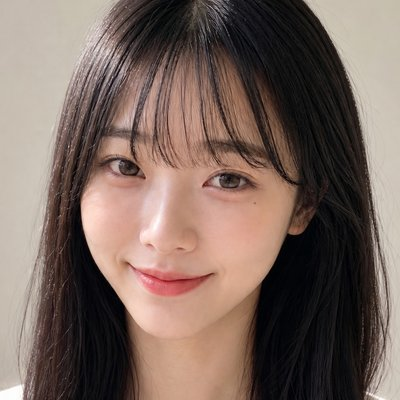
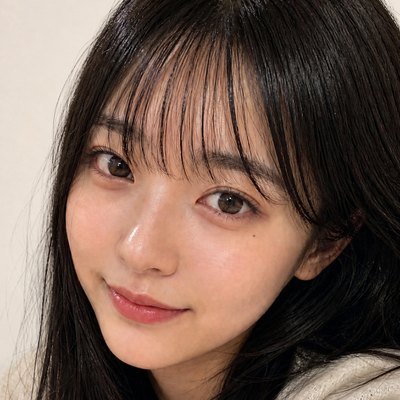
「選ぶ」にnote記事の紹介ページを追加、ゆづきの顔を正本に差し替え
- /erabu/note/ を追加（公開済みnote記事11本をテーマ別に、見出し画像つき）
- /erabu/ の「まず読む3本」の下とWRITER帯、トップのYuki欄から一覧へリンク
- ゆづきのアバターを11/3確定の正本（正面笑顔）に差し替え
- sitemap.xml を更新

Claude-Session: https://claude.ai/code/session_016YuGQd8MzMS8DA3jrAxALJ

diff --git a/erabu/note/index.html b/erabu/note/index.html
@@ -1,0 +1,51 @@
+<!doctype html>
+<html lang="ja">
+<head>
+<meta charset="utf-8">
+<meta name="viewport" content="width=device-width, initial-scale=1, viewport-fit=cover">
+<title>Yukiのnote記事｜AI時代の働き方</title>
+<meta name="description" content="求人票の見方、固定残業代、内定通知書、パワハラの記録、きついメールへの返信など、Yukiがnoteに書いた記事をテーマ別に紹介。どれもAIに貼って使える指示文つき。">
+<meta property="og:title" content="Yukiのnote記事｜AI時代の働き方">
+<meta property="og:description" content="求人票の見方、固定残業代、内定通知書、パワハラの記録、きついメールへの返信など、Yukiがnoteに書いた記事をテーマ別に紹介。どれもAIに貼って使える指示文つき。">
+<meta property="og:type" content="article">
+<meta property="og:image" content="https://yuki19850322.github.io/sannin-note/img/og.jpg">
+<meta property="og:site_name" content="AI時代の働き方">
+<meta name="twitter:card" content="summary_large_image">
+<link rel="icon" href="../../favicon.svg" type="image/svg+xml">
+<meta name="theme-color" content="#f6f2ea">
+<link rel="preconnect" href="https://fonts.googleapis.com">
+<link rel="preconnect" href="https://fonts.gstatic.com" crossorigin>
+<link href="https://fonts.googleapis.com/css2?family=Syne:wght@500;700;800&family=Zen+Kaku+Gothic+New:wght@400;500;700;900&display=swap" rel="stylesheet">
+<link rel="stylesheet" href="../../assets/sub.css">
+<link rel="stylesheet" href="../../assets/fx.css">
+<link rel="stylesheet" href="../../assets/depth.css">
+<script src="../../assets/sub.js"></script>
+<script src="../../assets/fx.js"></script>
+</head>
+<body style="--c:var(--yuki)">
+<div class="bar" id="bar"></div>
+<div class="spot" id="spot"></div>
+<div class="act" id="cur"></div><div class="cur2" id="cur2"></div>
+<header>
+  <div class="wrap">
+    <a class="logo" href="../../"><i></i>AI時代の働き方</a>
+    <nav><a href="../../erabu/" style="--c:var(--yuki)" class="act">CHOOSE</a><a href="../../tsukau/" style="--c:var(--misaki)">USE</a><a href="../../totonoeru/" style="--c:var(--yuzuki)">LIVE</a><a href="../../about/">ABOUT</a></nav>
+  </div>
+</header>
+<main>
+<div class="ph"><div class="mesh"></div><div class="ring"></div><div class="ring2"></div><div class="wrap">
+  <div><div class="crumb"><a href="../../">TOP</a> <a href="../">CHOOSE</a> <span>NOTE</span></div>
+  <div class="kicker">YUKI ／ NOTE</div>
+  <h1 style="font-size:clamp(28px,4.4vw,54px)">noteの記事を、テーマ別に。</h1>
+  <p class="lead">求人票の読み方から、職場でつらいときの返し方まで。Yukiがnoteに書いた記事を、悩みの場面ごとに並べました。どれも「AIに貼る→AIが整理する→自分で確かめる」の順で、指示文つきです。記事はnoteで読めます（無料）。</p></div>
+  <div class="stage"><div class="layer hero-art" data-d="1"><img src="../../img/note/f2.jpg" alt=""><span class="badge">NOTE</span><span class="cap"><i></i>AIに貼って、自分で確かめる。</span></div><div class="layer mini m1" data-d="2.2"><img src="../../img/note/a1.jpg" alt=""></div><div class="layer mini m2" data-d="3.0"><img src="../../img/note/n2.jpg" alt=""></div><div class="layer tagf t1" data-d="3.6"><i></i>指示文つき</div><div class="layer tagf t2" data-d="2.6"><i></i>無料で読める</div></div>
+</div></div><section><div class="wrap"><div class="head rv"><div class="en">BEFORE YOU APPLY</div><h2 class="split">応募する前に、求人を読む</h2><p>いい言葉が並ぶ求人票から、実際の条件を読み取る。AIに貼れば、点数と本当の時給まで出せます。</p></div><div class="grid"><a class="card tilt ext rv" href="https://note.com/ai_shigoto_erabi/n/n7cb4c8be0472" target="_blank" rel="noopener"><div class="pic wipe"><img src="../../img/note/a1.jpg" alt="求人票の見方" loading="lazy"></div><div class="glow"></div><div class="body"><span class="tag">求人票</span><h3>求人票の見方</h3><p>6項目100点で採点すると、応募で迷わなくなる。採点表つき。</p><span class="go">READ ON NOTE</span></div></a><a class="card tilt ext rv d1" href="https://note.com/ai_shigoto_erabi/n/n78d0d169cbec" target="_blank" rel="noopener"><div class="pic wipe"><img src="../../img/note/f2.jpg" alt="求人をAIで判定する" loading="lazy"></div><div class="glow"></div><div class="body"><span class="tag">AIで判定</span><h3>求人をAIで判定する</h3><p>「この求人どう？」で一般論しか返らないとき。貼るだけで点数が出る指示文。</p><span class="go">READ ON NOTE</span></div></a><a class="card tilt ext rv d2" href="https://note.com/ai_shigoto_erabi/n/na0cab115c758" target="_blank" rel="noopener"><div class="pic wipe"><img src="../../img/note/a2.jpg" alt="固定残業代の求人は損？" loading="lazy"></div><div class="glow"></div><div class="body"><span class="tag">固定残業代</span><h3>固定残業代の求人は損？</h3><p>「45時間分を含む」の求人を貼るだけで、基本給と本当の時給が分かる。</p><span class="go">READ ON NOTE</span></div></a><a class="card tilt ext rv" href="https://note.com/ai_shigoto_erabi/n/n8df38187ddba" target="_blank" rel="noopener"><div class="pic wipe"><img src="../../img/note/a3.jpg" alt="年収レンジの読み方" loading="lazy"></div><div class="glow"></div><div class="body"><span class="tag">年収</span><h3>年収レンジの読み方</h3><p>「400〜700万円」の上限を信じていいか。下限で判断する理由と確かめ方。</p><span class="go">READ ON NOTE</span></div></a></div></div></section><section style="padding-top:0"><div class="wrap"><div class="head rv"><div class="en">INTERVIEW &amp; OFFER</div><h2 class="split">面接と、内定のあと</h2><p>当日に見る1枚と、返事をする前に確かめること。</p></div><div class="grid"><a class="card tilt ext rv" href="https://note.com/ai_shigoto_erabi/n/nbde325e6a9f2" target="_blank" rel="noopener"><div class="pic wipe"><img src="../../img/note/c1.jpg" alt="面接カンペの作り方" loading="lazy"></div><div class="glow"></div><div class="body"><span class="tag">面接</span><h3>面接カンペの作り方</h3><p>当日はこの1枚だけ見ればいい。11項目のカンペの作り方。</p><span class="go">READ ON NOTE</span></div></a><a class="card tilt ext rv d1" href="https://note.com/ai_shigoto_erabi/n/n084c5eb439cf" target="_blank" rel="noopener"><div class="pic wipe"><img src="../../img/note/i1.jpg" alt="内定通知書のチェック" loading="lazy"></div><div class="glow"></div><div class="body"><span class="tag">内定</span><h3>内定通知書のチェック</h3><p>口頭の説明と書面がちがったら。サインの前に確かめること。</p><span class="go">READ ON NOTE</span></div></a></div></div></section><section class="dark"><div class="wrap"><div class="head rv"><div class="en">WHEN WORK HURTS</div><h2 class="split">職場でつらいとき、AIを味方にする</h2><p>辞めるかどうかを決める前に、まず記録する。言い返す前に、AIで整える。</p></div><div class="grid"><a class="card tilt ext rv" href="https://note.com/ai_shigoto_erabi/n/nea6f6b5e982c" target="_blank" rel="noopener"><div class="pic wipe"><img src="../../img/note/g2-1.jpg" alt="パワハラの記録の付け方" loading="lazy"></div><div class="glow"></div><div class="body"><span class="tag">記録</span><h3>パワハラの記録の付け方</h3><p>「おかしい」と思った日から、スマホで残す7つの項目。</p><span class="go">READ ON NOTE</span></div></a><a class="card tilt ext rv d1" href="https://note.com/ai_shigoto_erabi/n/nc9b060a08847" target="_blank" rel="noopener"><div class="pic wipe"><img src="../../img/note/n2.jpg" alt="きついメールへの返信" loading="lazy"></div><div class="glow"></div><div class="body"><span class="tag">返信</span><h3>きついメールへの返信</h3><p>理不尽な指示やきつい言い方に、感情を抜いた返信をAIで作る。言いかえ例つき。</p><span class="go">READ ON NOTE</span></div></a><a class="card tilt ext rv d2" href="https://note.com/ai_shigoto_erabi/n/n115c665d4df7" target="_blank" rel="noopener"><div class="pic wipe"><img src="../../img/note/n3.jpg" alt="仕事を断れないとき" loading="lazy"></div><div class="glow"></div><div class="body"><span class="tag">断り方</span><h3>仕事を断れないとき</h3><p>押しつけられた仕事を、角を立てずに断る。AIで3段階の断り方を作る。</p><span class="go">READ ON NOTE</span></div></a><a class="card tilt ext rv" href="https://note.com/ai_shigoto_erabi/n/n1ea22c619327" target="_blank" rel="noopener"><div class="pic wipe"><img src="../../img/note/h1.jpg" alt="辞めたい、でも決められない" loading="lazy"></div><div class="glow"></div><div class="body"><span class="tag">辞めるか迷う</span><h3>辞めたい、でも決められない</h3><p>AIに質問してもらって、気持ちを「4つの箱」に整理する。20のチェックリストつき。</p><span class="go">READ ON NOTE</span></div></a></div></div></section><section><div class="wrap"><div class="head rv"><div class="en">AI ERA</div><h2 class="split">AI時代に、仕事を選び直す</h2><p>職種の名前ではなく、毎日の作業の中身で考える。</p></div><div class="grid"><a class="card tilt ext rv" href="https://note.com/ai_shigoto_erabi/n/n0d2ad6871445" target="_blank" rel="noopener"><div class="pic wipe"><img src="../../img/note/e1.jpg" alt="自分の仕事はAIに奪われる？" loading="lazy"></div><div class="glow"></div><div class="body"><span class="tag">AIと仕事</span><h3>自分の仕事はAIに奪われる？</h3><p>職種名ではなく「仕事の中身」で見分ける。AIに仕分けさせる指示文つき。</p><span class="go">READ ON NOTE</span></div></a><a class="card tilt rv d1" href="../ai-shigoto/"><div class="pic wipe"><img src="../../img/p2.jpg" alt="" loading="lazy"></div><div class="glow"></div><div class="body"><span class="tag">このサイトで読む</span><h3>AIに奪われにくい仕事の選び方</h3><p>今の仕事を4つに仕分けて、残るか外を見るかを決める。</p><span class="go">OPEN</span></div></a><a class="card tilt rv d2" href="../agent/"><div class="pic wipe"><img src="../../img/g5.jpg" alt="" loading="lazy"></div><div class="glow"></div><div class="body"><span class="tag">このサイトで比べる</span><h3>転職エージェントの選び方</h3><p>記事を読んで動くと決めたら。働きながらの人が最初の1〜2社を決める比較。</p><span class="go">OPEN</span></div></a></div></div></section><section class="tight"><div class="wrap"><div class="band rv"><div class="en">MAGAZINE</div><h2 class="split">マガジンで、まとめて読む</h2><p>noteでは2つのマガジンに分けています。フォローしておくと、新しい記事が届きます。</p><ul class="links"><li><a class="mag ext" href="https://note.com/ai_shigoto_erabi/m/m94c09af7249b" target=_blank rel=noopener>働きながらの転職を、仕組みにする</a></li><li><a class="mag ext" href="https://note.com/ai_shigoto_erabi/m/m9ab1b5729e08" target=_blank rel=noopener>辞める前に、記録する</a></li><li><a class="mag ext" href="https://note.com/ai_shigoto_erabi" target=_blank rel=noopener>note「AI時代の仕事選び」</a></li></ul></div></div></section>
+</main>
+<footer>
+  <div class="wrap">
+    <div class="big"><span>AI</span>時代の働き方</div>
+    <small><a href="../../about/">運営情報・広告の表示について</a><br>運営：AI時代の働き方 編集部<br>© 2026 WORK STYLE IN THE AGE OF AI</small>
+  </div>
+</footer>
+</body>
+</html>

diff --git a/erabu/index.html b/erabu/index.html
@@ -48,6 +48,7 @@
     <a class="card tilt ext rv d1" href="https://note.com/ai_shigoto_erabi/n/n8df38187ddba" target="_blank" rel="noopener"><div class="pic wipe"><img src="../img/p1.jpg" alt="" loading="lazy"></div><div class="glow"></div><div class="body"><div class="no">NOTE 02</div><h3>年収レンジの読み方</h3><p>「400〜700万円」の幅は何を意味するのか。自分がどこに入るかの見当のつけ方。</p><span class="go">READ ON NOTE</span></div></a>
     <a class="card tilt ext rv d2" href="https://note.com/ai_shigoto_erabi/n/n084c5eb439cf" target="_blank" rel="noopener"><div class="pic wipe"><img src="../img/g4.jpg" alt="" loading="lazy"></div><div class="glow"></div><div class="body"><div class="no">NOTE 03</div><h3>内定通知書のチェック</h3><p>サインする前に確かめる項目。口頭で聞いた条件と違っていないか。</p><span class="go">READ ON NOTE</span></div></a>
   </div>
+  <div class="rv" style="margin-top:8px"><a class="btn" href="note/" style="--c:var(--yuki)"><span>noteの記事を、全部見る<small>（テーマ別に11本）</small></span></a></div>
 </div></section>
 <section style="padding-top:0"><div class="wrap">
   <div class="head rv"><div class="en">COMPARE</div><h2 class="split">比べて、選ぶ</h2><p>サービスの比較はこのサイトでまとめています。</p></div>
@@ -67,7 +68,7 @@
     <a class="card tilt rv d2" href="taishoku/"><div class="pic wipe"><img src="../img/g6.jpg" alt="" loading="lazy"></div><div class="glow"></div><div class="body"><span class="tag">辞めると決めたら</span><h3>退職代行の選び方</h3><p>弁護士・労働組合・民間。運営元で、できることが違う。</p><span class="go">OPEN</span></div></a>
   </div>
 </div></section>
-<section class="tight"><div class="wrap"><div class="band rv"><div class="en">WRITER</div><h2 class="split">書いているのは、Yuki</h2><p>AIを使った仕事術と、転職の悩みを書いています。働きながら転職を進める仕組みを、迷ったときに手元に置ける記事にしています。</p><ul class="links"><li><a class="mag ext" href="https://note.com/ai_shigoto_erabi" target=_blank rel=noopener>note「AI時代の仕事選び」</a></li><li><a class="mag" href="../#members">3人のメンバー</a></li></ul></div></div></section>
+<section class="tight"><div class="wrap"><div class="band rv"><div class="en">WRITER</div><h2 class="split">書いているのは、Yuki</h2><p>AIを使った仕事術と、転職の悩みを書いています。働きながら転職を進める仕組みを、迷ったときに手元に置ける記事にしています。</p><ul class="links"><li><a class="mag" href="note/">noteの記事一覧（このサイト内）</a></li><li><a class="mag ext" href="https://note.com/ai_shigoto_erabi" target=_blank rel=noopener>note「AI時代の仕事選び」</a></li><li><a class="mag" href="../#members">3人のメンバー</a></li></ul></div></div></section>
 </main>
 <footer>
   <div class="wrap">

diff --git a/index.html b/index.html
@@ -330,6 +330,7 @@ footer small{font-family:var(--en);color:rgba(255,255,255,.6);font-size:12px;let
             <p>求人票の見方や、働きながら転職を進める仕組みなど、迷ったときに手元に置ける記事を書いています。ガジェット好きで、「買う前チェック帳」ではガジェットの紹介も担当しています。</p>
             <ul class="links">
               <li><a class="mag" href="https://note.com/ai_shigoto_erabi" target="_blank" rel="noopener">note <small>AI時代の仕事選び</small></a></li>
+              <li><a class="mag" href="erabu/note/">記事一覧 <small>テーマ別に11本</small></a></li>
             </ul>
           </div>
         </article>
